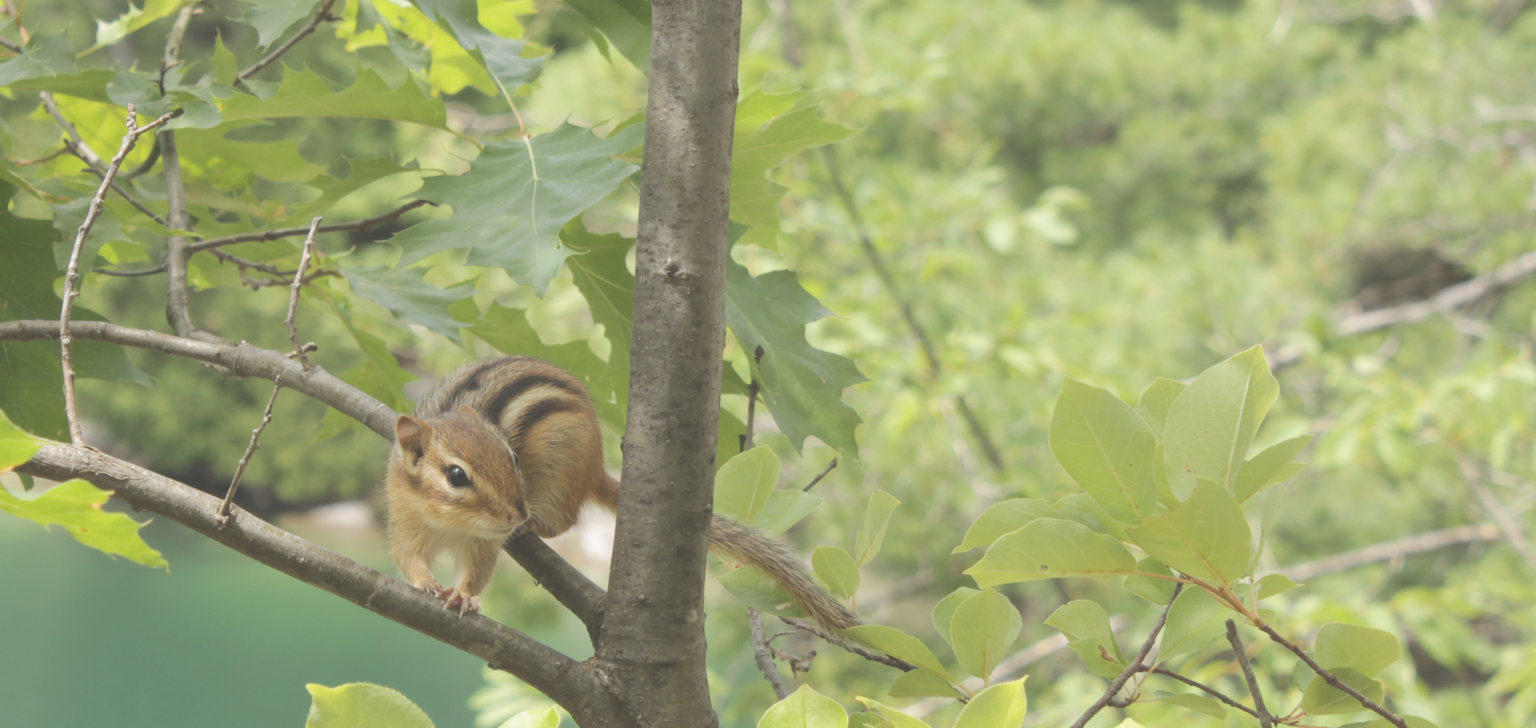
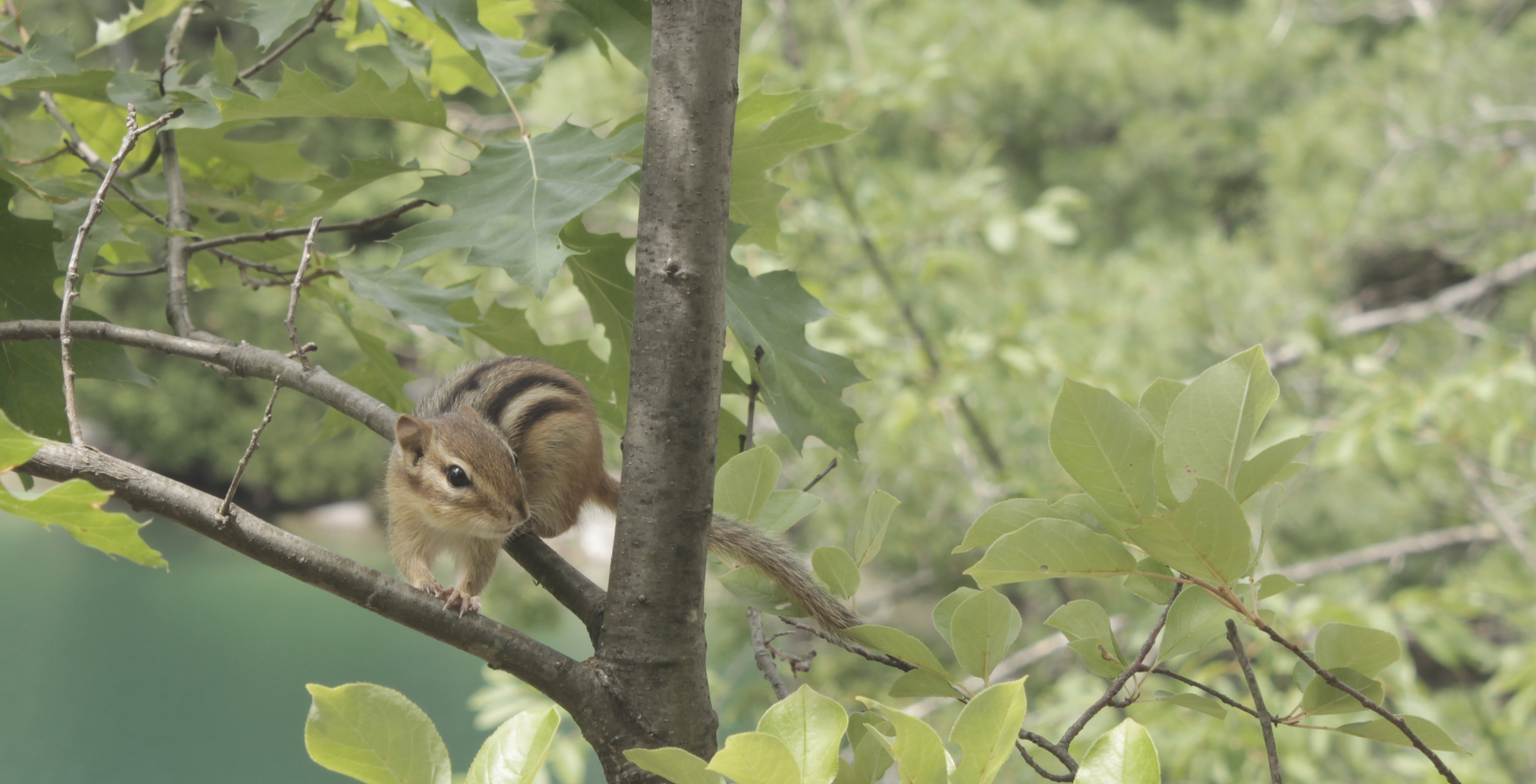
made 404 page

diff --git a/css/main.css b/css/main.css
@@ -254,6 +254,60 @@ footer {
   position: fixed;
 }
 
+.container {
+  position: relative;
+  text-align: center;
+  color: white;
+}
+
+.error {
+  background-color: #00AFAA;
+  padding: 2em;
+}
+
+.top-right {
+  top: 80px;
+  right: 0px;
+}
+
+.link {
+  top: 170px;
+  right: 100px;
+}
+
+.link:hover {
+  fill: #fff;
+  transition: .3s ease-in-out;
+}
+
+.tena, .tera{
+  color: #fff;
+  text-align: center;
+}
+
+
+@media only screen and (min-width: 38em) {
+
+  .top-right {
+    position: absolute;
+    top: 20px;
+    right: 16px;
+  }
+
+  .link {
+    position: absolute;
+    top: 190px;
+    right: 20px;
+    left: 20px;
+  }
+
+  .error {
+    background-color: #00AFAA;
+    padding-bottom: 4em;
+  }
+
+}
+
 
 @media only screen and (min-width: 60em) {
 
@@ -286,5 +340,18 @@ footer {
 
   #menuToggle {
     top: 40px;
+  }
+
+  .top-right {
+    position: absolute;
+    top: 130px;
+    right: 16px;
+  }
+
+  .link {
+    position: absolute;
+    top: 210px;
+    right: 70px;
+    left: 70px;
   }
 }

diff --git a/404.html b/404.html
@@ -3,9 +3,17 @@ layout: default
 ---
 
 <section class="unit xs-1 s-1 m-1 l-1 xl-1 top-banner">
-  <img src="{{site.baseurl}}/images/top-banner.png" alt="Banner" align="center" style="width:100%">
+  <img class="relative" src="{{site.baseurl}}/images/top-banner.png" alt="Banner" align="center" style="width:100%">
 </section>
 
 <section>
-  <img src="{{site.baseurl}}/images/nut.jpg" alt="error" align="center" class="image" style="width:100%" min-height="50%">
+  <img class="container" src="{{site.baseurl}}/images/nut.jpg" alt="error" align="center" class="image" style="width:100%" min-height="50%">
+</section>
+
+<section class="top-right unit xs-1 s-1 m-1-2 l-1-2 xl-1-2">
+  <div class="error">
+    <h1 class="tena">Error 404.</h1>
+    <h2 class="tera">Awuh nuts! How did I end up here?</h2>
+    <a class="link pad-t-1-2" itemprop="url" align="center" href="{{site.baseurl}}/#home"><p><u>Lets get you back home before your mom gets worried.</u></p></a>
+  </div>
 </section>
